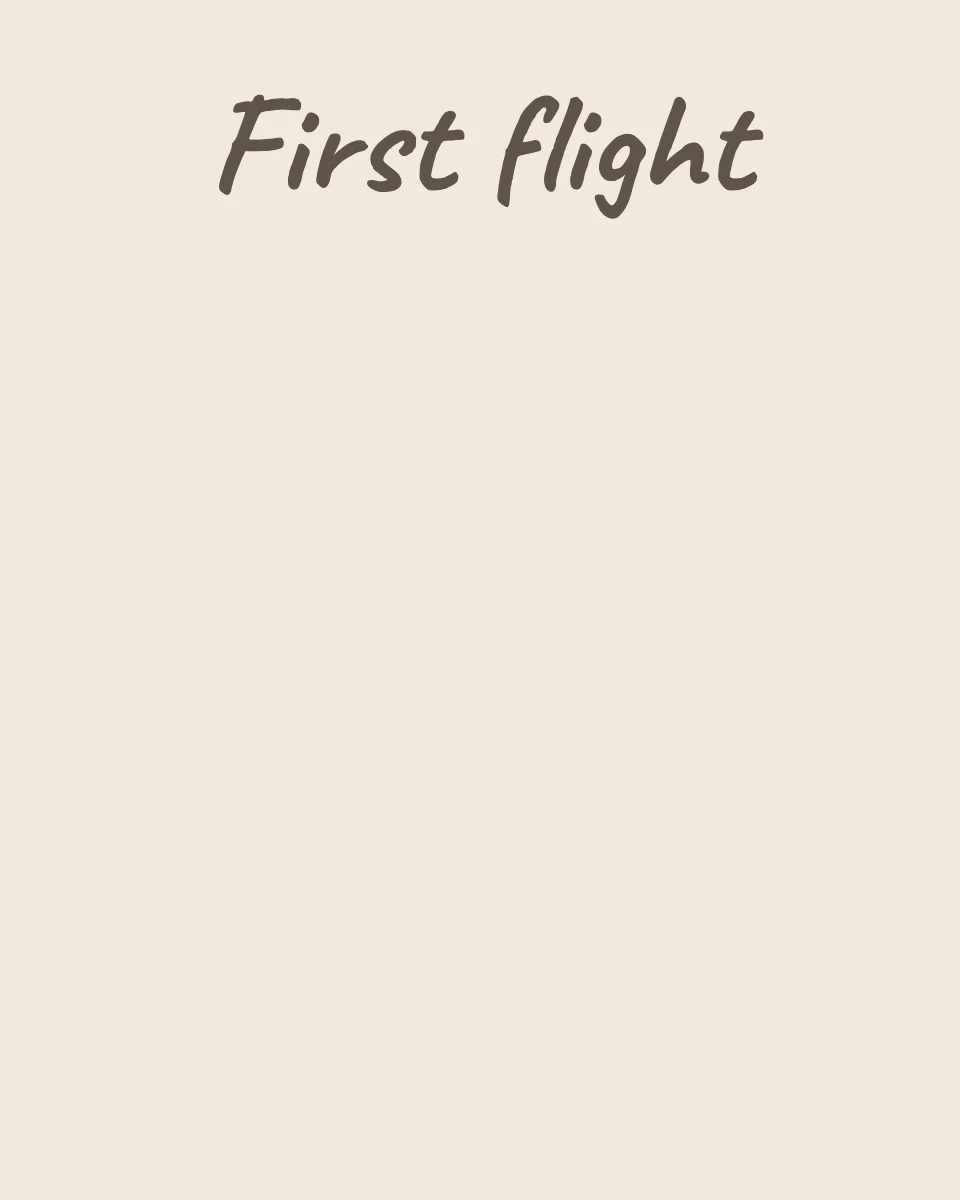
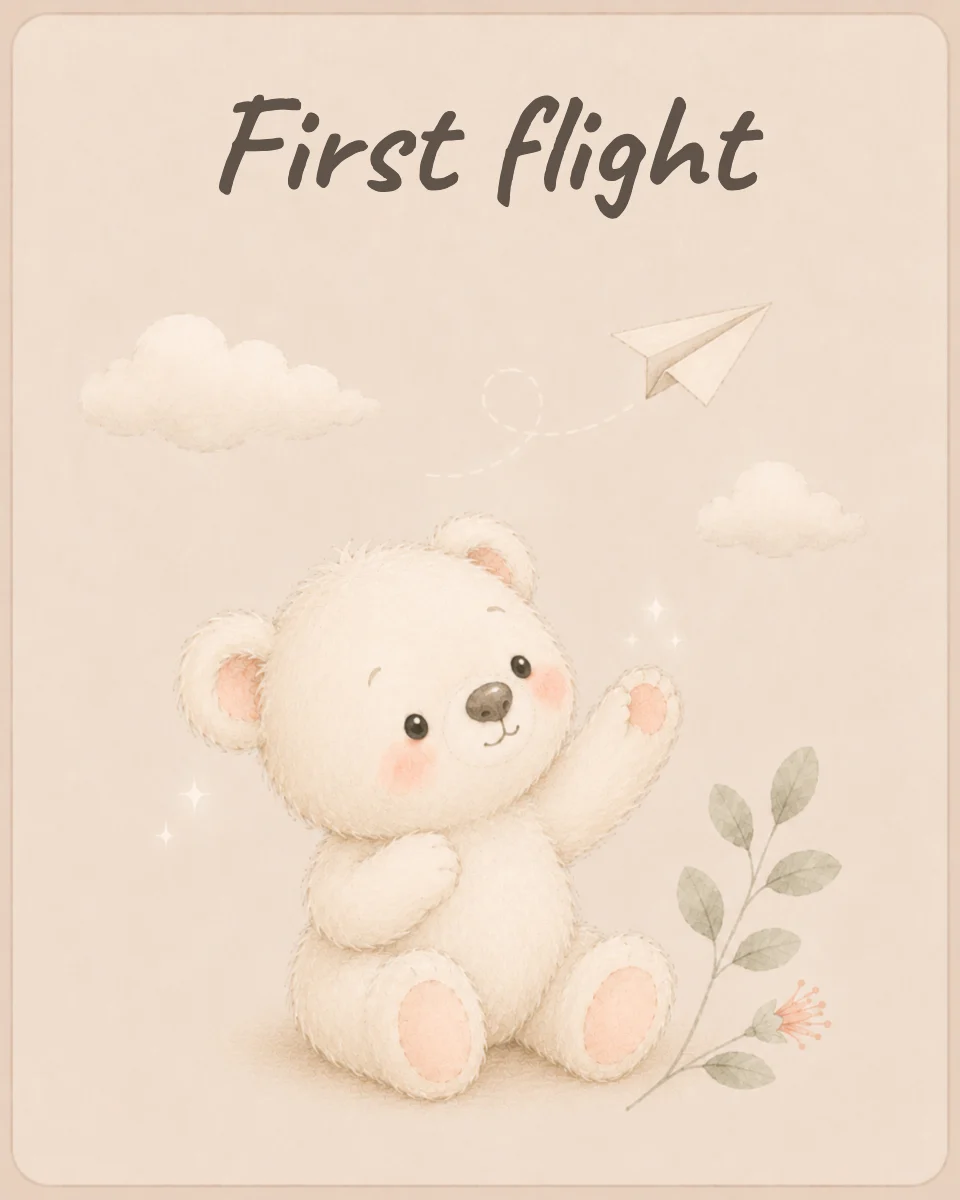
Moments art: batch B — Firsts part two (10 cards, 47/51 Firsts painted)
First beach day · First road trip · First flight · First daycare day ·
First artwork · First festival · First birthday party (hat-free per the
locked rule) · I ran today · I climbed today · Made a mess today.
Content-verified and baked; festival bunting and flight clouds clear the
caption zone.

diff --git a/app/sw.js b/app/sw.js
@@ -1,6 +1,6 @@
 /* Cubby service worker.
    Bump CACHE on every deploy so old assets are cleared. */
-const CACHE = 'little-log-v158';
+const CACHE = 'little-log-v159';
 const ASSETS = [
   '/app/',
   '/app/index.html',
